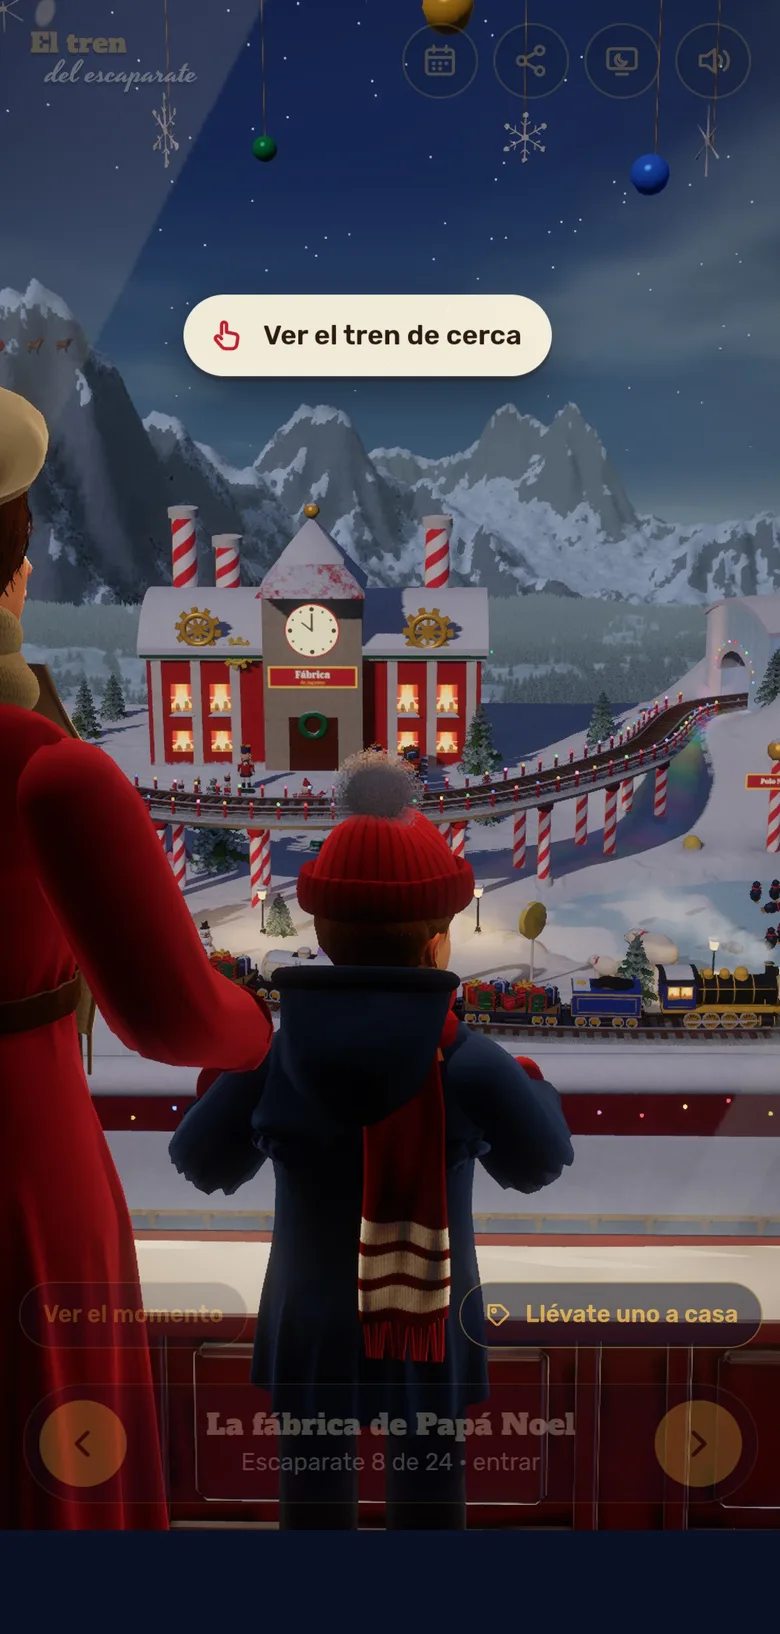
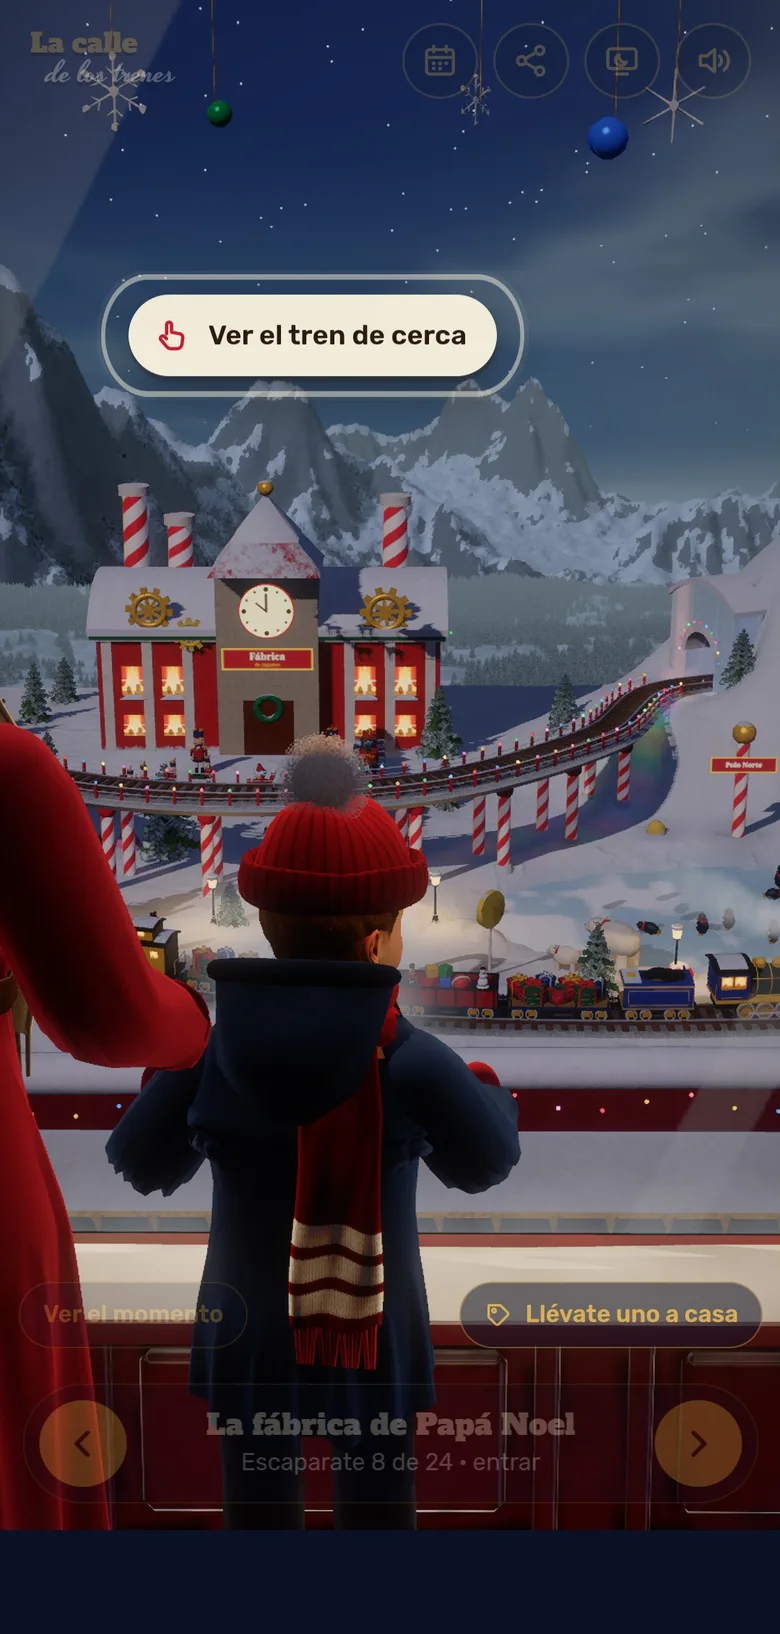
Web: La calle de los trenes — nombre nuevo y capturas

diff --git a/site/index.html b/site/index.html
@@ -194,11 +194,11 @@
         <div class="lab-list">
           <!-- BUILD:LAB -->
           <article class="lab-card" id="p-adviento-express">
-            <div class="shot shot-desktop has-phone"><figure class="device device-browser"><i aria-hidden="true"></i><img src="assets/lab/adviento-express/calle.webp" alt="El tren del escaparate: un niño y su madre pasean de noche por una calle nevada con guirnaldas" width="1440" height="900" loading="lazy" decoding="async" sizes="(max-width: 900px) 92vw, 560px"></figure><figure class="device device-phone device-overlap"><img src="assets/lab/adviento-express/cristal-movil.webp" alt="En el móvil, el escaparate de la fábrica de Papá Noel con el botón para ver el tren de cerca" width="780" height="1634" loading="lazy" decoding="async" sizes="160px"></figure></div>
+            <div class="shot shot-desktop has-phone"><figure class="device device-browser"><i aria-hidden="true"></i><img src="assets/lab/adviento-express/calle.webp" alt="La calle de los trenes: un niño y su madre pasean de noche por una calle nevada con guirnaldas" width="1440" height="900" loading="lazy" decoding="async" sizes="(max-width: 900px) 92vw, 560px"></figure><figure class="device device-phone device-overlap"><img src="assets/lab/adviento-express/cristal-movil.webp" alt="En el móvil, el escaparate de la fábrica de Papá Noel con el botón para ver el tren de cerca" width="780" height="1634" loading="lazy" decoding="async" sizes="160px"></figure></div>
             <div class="lab-body">
               <div class="lab-meta"><span>WEB 3D · AFILIACIÓN</span><span class="status status-en-desarrollo">en desarrollo</span></div>
-              <h3>El tren del escaparate</h3>
-              <p class="lab-hook">Los trenes de los escaparates que mirabas de niño.</p>
+              <h3>La calle de los trenes</h3>
+              <p class="lab-hook">Los trenes de Navidad de los escaparates que mirabas de niño.</p>
               <p>Un niño pasea de la mano de su madre por una calle nevada y se queda embobado con los trenes de juguete de los escaparates. Cada tarde de diciembre se enciende uno nuevo, con su maqueta, su tren y un momento corto sin palabras. Se puede entrar en el escaparate, seguir al tren o dejarlo de fondo con villancicos.</p>
               <div class="lab-foot"><a class="btn" href="https://tren-navidad.vercel.app/" target="_blank" rel="noopener">tren-navidad.vercel.app<span aria-hidden="true">↗</span></a></div>
               <div class="lab-date">ACTUALIZADO · <time datetime="2026-11-26">26 NOV 2026</time></div>
